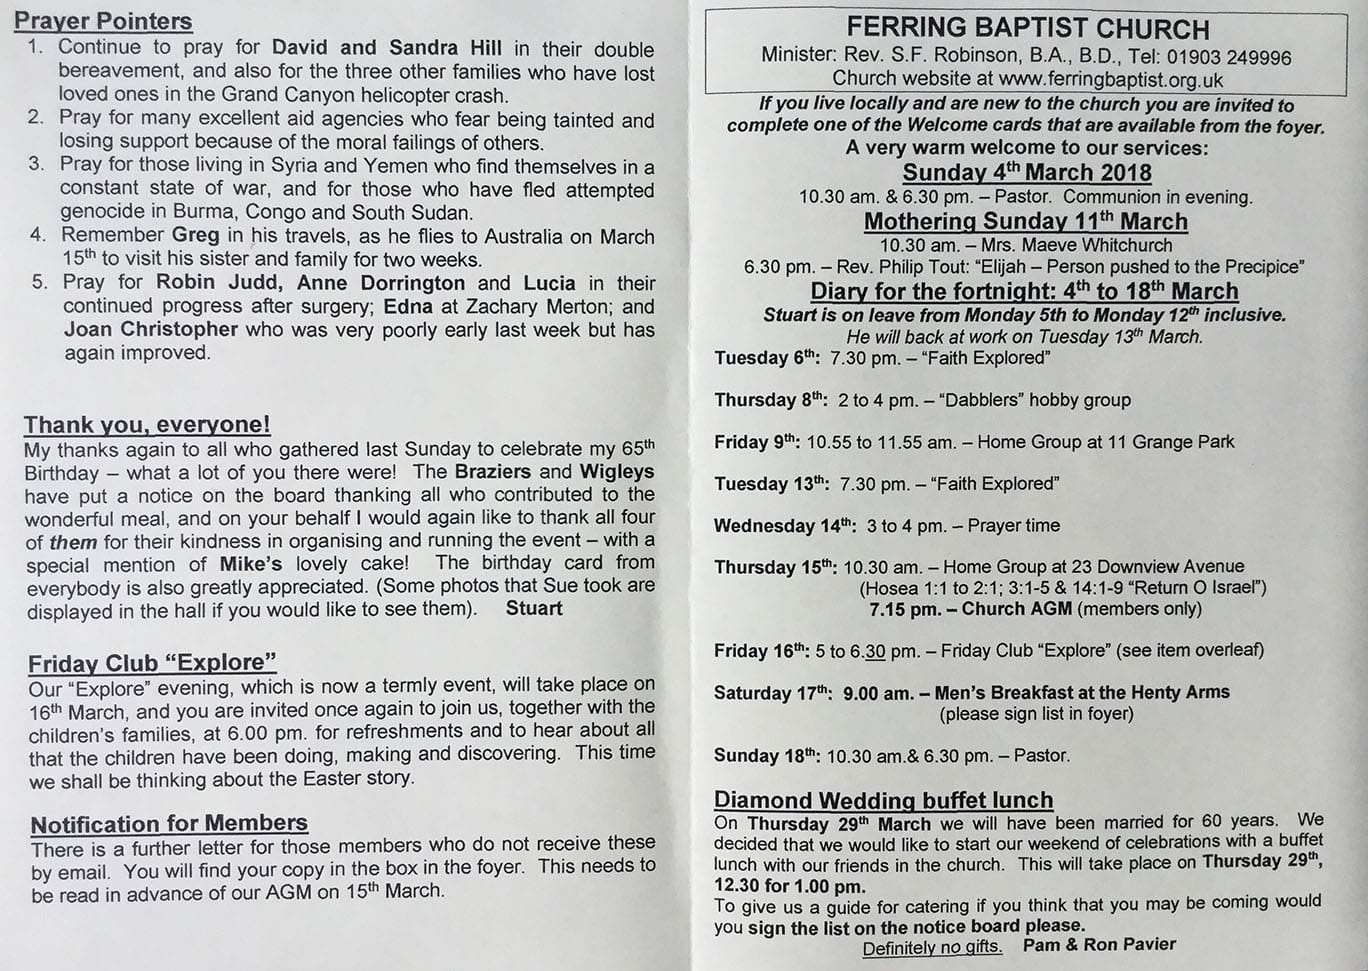
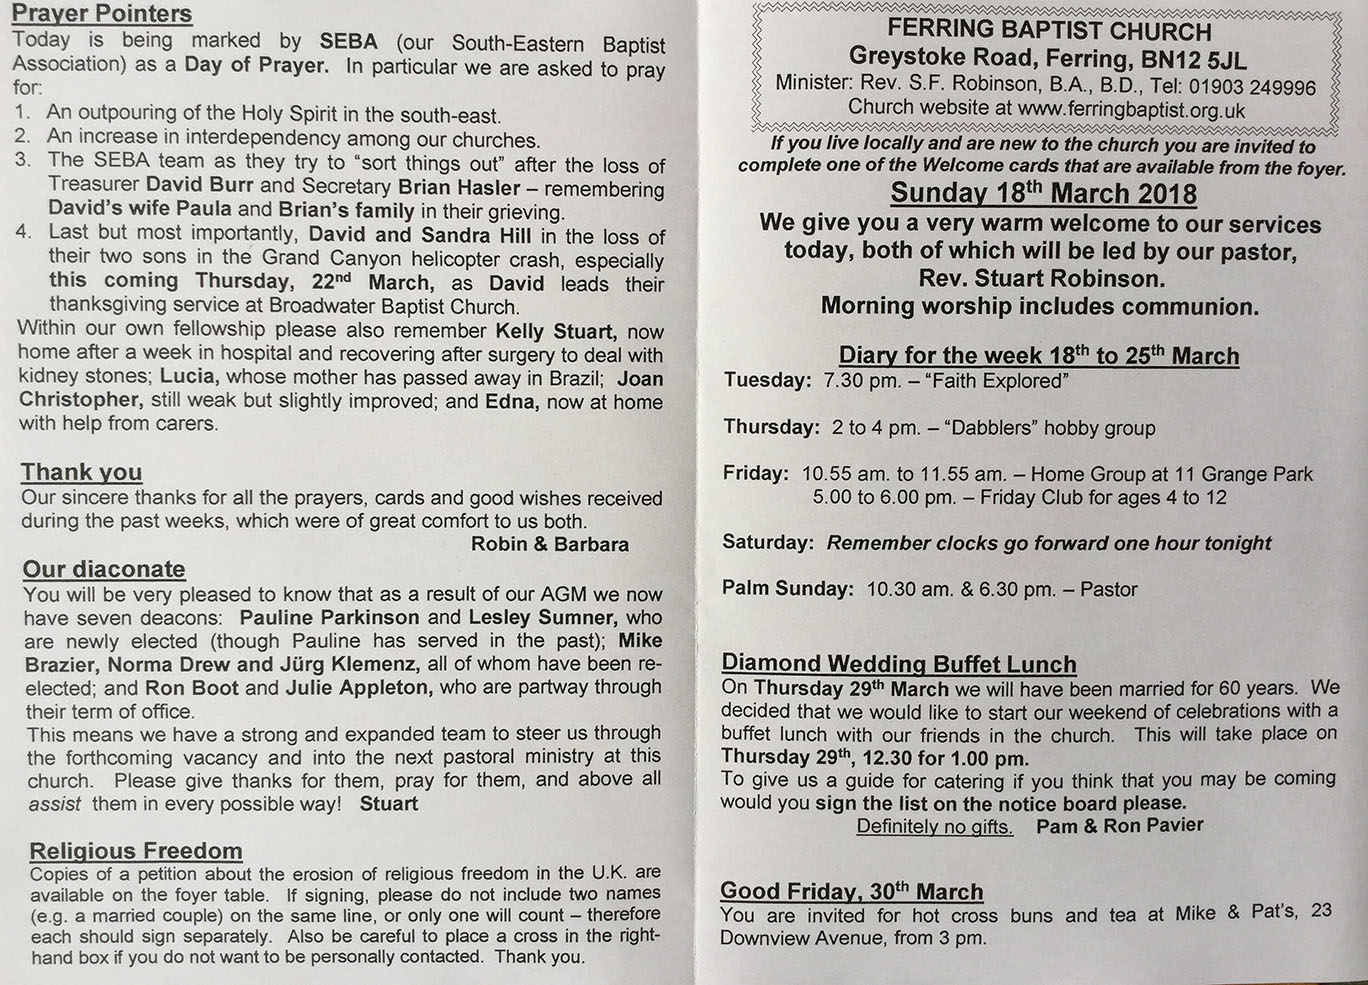
Weekly update

diff --git a/diary.php b/diary.php
@@ -2,11 +2,11 @@
 
 <?php include("header.php"); ?>
 			<div id="content">
-				<h1>Two Week Diary</h1>
+				<h1>This Week's Diary</h1>
 
 				<p class="centre">(For a long-term look at our church, see the <a href="upcoming.php">Coming Weeks page</a>)</p>
 
-				<p class="centre"><strong>Schedule for the weeks 4th to 18th March</strong></p>
+				<p class="centre"><strong>Schedule for the week 18th to 25th March</strong></p>
 
 				<table class="styled" summary="Schedule for events in the coming week(s)">
 					<thead>
@@ -18,60 +18,28 @@
 					</thead>
 					<tbody>
 						<tr class="odd">
-							<th scope="row">Tuesday 6th<br />7:30 P.M.</th>
+							<th scope="row">Tuesday<br />7:30 P.M.</th>
 							<td>"Faith Explored"</td>
 							<td></td>
 						</tr>
+						
 						<tr>
-							<th scope="row">Thursday 8th<br />2:00-4:00 P.M.</th>
+							<th scope="row">Thursday<br />2:00-4:00 P.M.</th>
 							<td>"Dabblers" Hobby Group</td>
 							<td>All welcome!</td>
 						</tr>
 						<tr class="odd">
-							<th scope="row">Friday 9th<br />10:55 A.M.</th>
+							<th scope="row">Friday<br />10:55 A.M.</th>
 							<td>Home Group at<br />Bryan &amp; Audrey's</td>
 							<td></td>
 						</tr>
 						<tr>
-							<th scope="row">Friday 9th<br />5:00-6:00 P.M.</th>
+							<th scope="row">Friday<br />5:00-6:00 P.M.</th>
 							<td>Friday Club<br />(Ages 4-12)</td>
 							<td></td>
 						</tr>
 						<tr class="odd">
-							<th scope="row">Sunday 11th<br />10:30 A.M.<br />6:30 P.M.</th>
-							<td>Sunday Services</td>
-							<td>Morning service will be led by<br />
-								Mrs. Maeve Whitchurch<br />
-								Evening service will be led by<br />
-								Rev. Philip Tout</td>
-						</tr>
-                        <tr>
-							<th scope="row">Tuesday 13th<br />7:30 P.M.</th>
-							<td>"Faith Explored"</td>
-							<td></td>
-						</tr>
-                        <tr class="odd">
-							<th scope="row">Wednesday 14th<br />3:00-4:00 P.M.</th>
-							<td>Prayer time</td>
-							<td></td>
-						</tr>
-						<tr>
-							<th scope="row">Thursday 15th<br /> 10:30 A.M.</th>
-							<td>Home Group at<br />Mike &amp; Pat's</td>
-							<td></td>
-						</tr>
-                        <tr class="odd">
-							<th scope="row">Thursday 15th<br /> 7:15 P.M.</th>
-							<td><strong>Church AGM</strong></td>
-							<td>(Members only)</td>
-						</tr>
-						<tr>
-							<th scope="row">Friday 16th<br />5:00-<em>6:30 P.M.</em></th>
-							<td>Friday Club "Explore"</td>
-							<td></td>
-						</tr>
-						<tr class="odd">
-							<th scope="row">Sunday 18th<br />10:30 A.M.<br />6:30 P.M.</th>
+							<th scope="row">Sunday<br />10:30 A.M.<br />6:30 P.M.</th>
 							<td>Sunday Services</td>
 							<td></td>
 						</tr>

diff --git a/upcoming.php b/upcoming.php
@@ -62,8 +62,8 @@
 						</tr>
 						<tr class="odd">
 							<th scope="row">Mar 11th</th>
-							<td>TBC</td>
-							<td>TBC</td>
+							<td>Mrs. Maeve Whitchurch</td>
+							<td>Rev. Philip Tout</td>
 						</tr>
 						<tr>
 							<th scope="row">Mar 18th</th>
